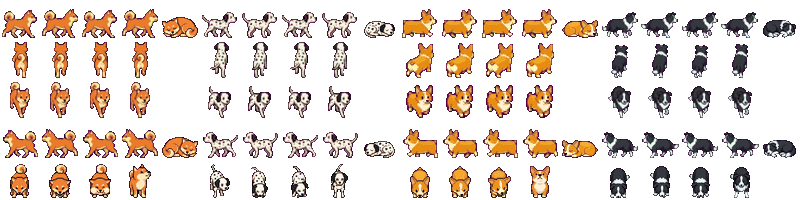
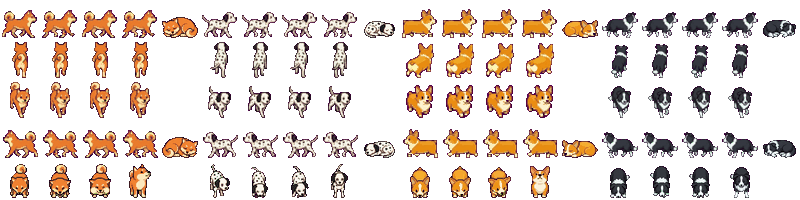
Walk with one side open while the other closes
The second walk pose was a different frame with all legs gathered, so both sides opened and
closed together. Now it is the first pose with each leg group mirrored in place: the side that
was spread gathers and the other side spreads, as in a real walk, on the same body (no jitter).
Breeds whose generated frame had the same-side legs parallel get their front legs swapped first.

diff --git a/src/scenes/petSheet.ts b/src/scenes/petSheet.ts
@@ -1,8 +1,9 @@
 /**
  * Layout of the dog and cat sheets (public/assets/ranch/dog.png, cat.png): four breeds side by
  * side, BREED_COLS columns each. Rows: walk right (+ asleep), walk up, walk down, walk left
- * (+ asleep), then eat (facing the viewer). A walk is two poses, looped: from the side, legs spread
- * (hind back, front forward) then gathered under the body. Columns 2-3 repeat them.
+ * (+ asleep), then eat (facing the viewer). A walk is two poses, looped. From the side, the legs of
+ * one side are spread (hind back, front forward) while the other side's are gathered, then the same
+ * body with the sides swapped: each side opens and closes in turn. Columns 2-3 repeat them.
  */
 export const BREED_COLS = 5;
 export const BREEDS = 4;

diff --git a/tests/scenes/petSheet.test.ts b/tests/scenes/petSheet.test.ts
@@ -11,7 +11,7 @@ describe('pet sheet layout', () => {
     expect(petFrame(3, 4, 4)).toBe(4 * 20 + 15 + 4);
   });
 
-  it('a walk is two poses, legs spread then gathered, six a second', () => {
+  it('a walk is two poses (one side spread, then the other), six a second', () => {
     expect(walkCycle(1, 0)).toEqual([5, 6]);
     expect(walkCycle(2, 3)).toEqual([70, 71]);
     expect(WALK_FPS).toBe(6);
